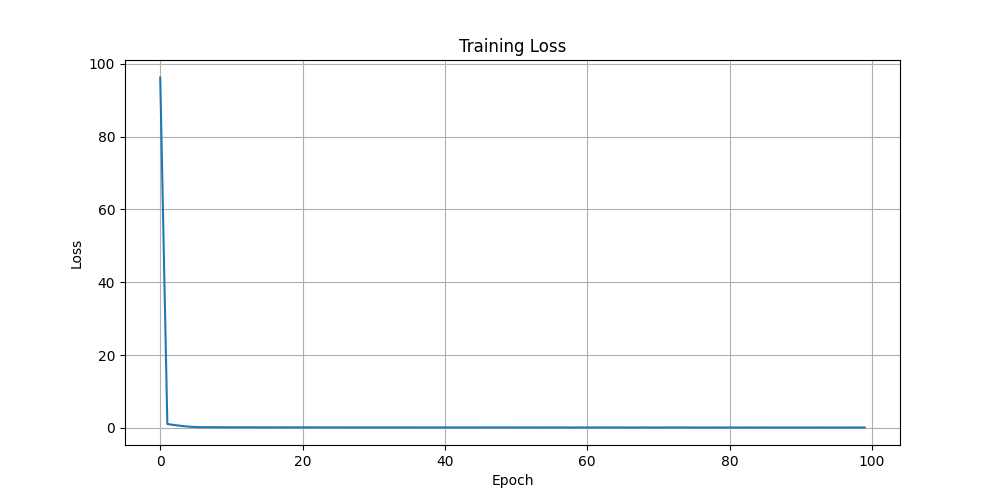
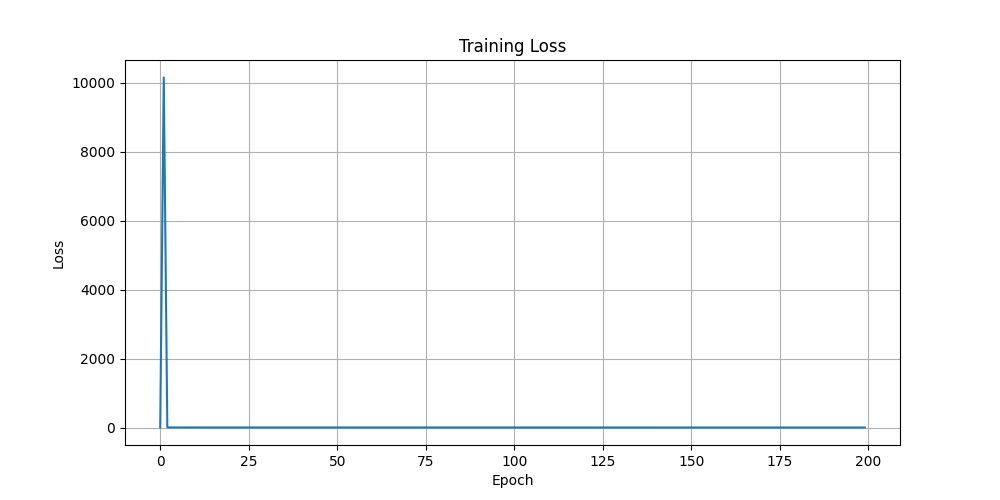
v1

diff --git a/utils/flow_utils.py b/utils/flow_utils.py
@@ -1,60 +1,74 @@
 # utils/flow_utils.py
 import torch
+import torch.nn.functional as F
 
 def get_linear_noise_schedule(t):
     return 1 - t, t
 
 def compute_flow_vector(x0, x1, t):
-    # 确保 t 的形状与 x0, x1 匹配
-    if t.dim() == 1:
-        # 将 t 从 [B] 扩展为 [B, 1, 1, 1] 以匹配图像张量的维度
-        t = t.view(-1, 1, 1, 1)
-    
-    # 扩展 t 到与 x0, x1 相同的形状
-    t = t.expand_as(x0)
-    
-    s0, s1 = get_linear_noise_schedule(t)
-    xt = s0 * x0 + s1 * x1
-    vt = x1 - x0
-    return xt, vt
-
-def flow_matching_loss(model, x0, x_cond, t=None):
     """
-    计算流匹配损失函数
+    计算从x0到x1的线性流场向量
+    Args:
+        x0: 起始点 (例如噪声图像) [B, C, H, W]
+        x1: 终止点 (例如真实图像) [B, C, H, W]
+        t: 时间步 [B, 1] 或标量
+    Returns:
+        vt: 在时间t处的速度向量 [B, C, H, W]
+    """
+    # 确保t的形状正确
+    if isinstance(t, torch.Tensor) and t.dim() == 0:
+        t = t.unsqueeze(0)  # 添加batch维度
     
+    # 线性插值的流向量就是从x0到x1的方向向量
+    # 对于线性路径: path(t) = (1-t) * x0 + t * x1
+    # 速度向量: v(t) = d/dt path(t) = x1 - x0
+    vt = x1 - x0
+    return vt
+
+def flow_matching_loss(model, clean_img, masked_img, mask=None, num_time_samples=1):
+    """
+    计算流匹配损失
     Args:
         model: 条件UNet模型
-        x0: 目标图像 (干净图像)
-        x_cond: 条件图像 (掩码图像)
-        t: 时间步，如果为None则随机生成
-    
+        clean_img: 真实图像 [B, C, H, W]
+        masked_img: 带掩码的图像 [B, C, H, W]
+        mask: 掩码 (可选)
+        num_time_samples: 每个样本的时间点采样数
     Returns:
-        loss: 流匹配损失值
+        loss: 流匹配损失
     """
-    # 确保所有输入张量在相同设备上
-    device = x0.device
-    x_cond = x_cond.to(device)
+    B, C, H, W = clean_img.shape
+    device = clean_img.device
     
-    # 获取批次大小
-    batch_size = x0.size(0)
+    losses = []
     
-    # 如果没有提供时间步，则随机生成[0,1)范围内的时间步
-    if t is None:
-        t = torch.rand(batch_size, device=device)
-    else:
-        t = t.to(device)
+    for _ in range(num_time_samples):
+        # 随机采样时间点 t ~ Uniform(0, 1)
+        t = torch.rand(B, device=device)
+        
+        # 生成噪声样本 x0 ~ N(0, I)
+        x0 = torch.randn_like(clean_img)
+        
+        # 使用线性插值计算 xt
+        # xt = (1 - t) * x0 + t * x1
+        t_expand = t.view(B, 1, 1, 1)
+        xt = (1 - t_expand) * x0 + t_expand * clean_img
+        
+        # 计算真实流场向量 vt = x1 - x0
+        vt_true = compute_flow_vector(x0, clean_img, t)
+        
+        # 模型预测流场向量
+        vt_pred = model(xt, t, masked_img)
+        
+        # 计算均方误差损失
+        # 只在掩码区域计算损失（如果提供了掩码）
+        if mask is not None:
+            # 扩展mask以匹配图像维度
+            mask_expand = mask.view(B, 1, H, W).expand_as(vt_true)
+            loss = F.mse_loss(vt_pred[mask_expand], vt_true[mask_expand])
+        else:
+            loss = F.mse_loss(vt_pred, vt_true)
+            
+        losses.append(loss)
     
-    # 生成随机噪声图像x1
-    x1 = torch.randn_like(x0, device=device)
-    
-    # 计算在时间t时的图像状态xt和对应的流场向量vt
-    xt, vt = compute_flow_vector(x0, x1, t)
-    
-    # 模型预测流场向量
-    # 参数顺序：噪声图像xt，时间步t，条件图像x_cond
-    pred_vt = model(xt, t, x_cond)
-    
-    # 计算均方误差损失
-    loss = torch.mean((pred_vt - vt) ** 2)
-    
-    return loss
+    return torch.stack(losses).mean()

diff --git a/utils/visualize.py b/utils/visualize.py
@@ -1,7 +1,5 @@
-# utils/visualize.py
-import matplotlib.pyplot as plt
 import torch
-import numpy as np
+import matplotlib.pyplot as plt
 
 def save_inpainting_result(model, batch, device, filename, num_steps=50):
     model.eval()
@@ -10,13 +8,17 @@ def save_inpainting_result(model, batch, device, filename, num_steps=50):
     x_true = x_true.to(device)  # 确保 x_true 也在正确的设备上
     B, C, H, W = x_true.shape
 
+    # 初始化为标准正态分布噪声
     x = torch.randn_like(x_true).to(device)
+    
     with torch.no_grad():
         for i in range(num_steps, 0, -1):
+            # 时间从1到0，步长为1/num_steps
             t = torch.full((B,), i / num_steps, device=device)
             dt = 1.0 / num_steps
             vt = model(x, t, x_cond)
-            x = x - vt * dt
+            # 正确的更新公式，从噪声向数据移动
+            x = x + vt * dt  # 欧拉法求解ODE
 
     # 关键修复：确保所有张量在转换前都移到 CPU
     pred = x.cpu()

diff --git a/mini_train.py b/mini_train.py
@@ -17,7 +17,7 @@ def main():
         config = yaml.safe_load(f)
     
     # 修改配置：设置epoch数为100
-    config['num_epochs'] = 100
+    config['num_epochs'] = 200
 
     # 设置设备
     device = torch.device("cuda" if torch.cuda.is_available() else "cpu")
@@ -38,7 +38,7 @@ def main():
     try:
         full_dataset = CelebADataset(config['data_root'], img_size=config['img_size'])
         # 只使用前2000张图片
-        dataset = Subset(full_dataset, range(min(2000, len(full_dataset))))
+        dataset = Subset(full_dataset, range(min(200, len(full_dataset))))
         print(f"Dataset loaded with {len(dataset)} samples (limited to first 2000)")
     except Exception as e:
         print(f"Failed to load dataset: {e}")

diff --git a/utils/mask_utils.py b/utils/mask_utils.py
@@ -10,7 +10,7 @@ def random_rectangle_mask(H=64, W=64, max_size=0.4):
     mask[0, rh:rh+h, rw:rw+w] = 0
     return mask
 
-def inverse_rectangle_mask(H=64, W=64, min_visible_ratio=0.5, max_visible_ratio=0.8):
+def inverse_rectangle_mask(H=64, W=64, min_visible_ratio=0.7, max_visible_ratio=0.9):
     """
     创建反向遮罩：遮住大部分图片，只留下单块区域可见
     
